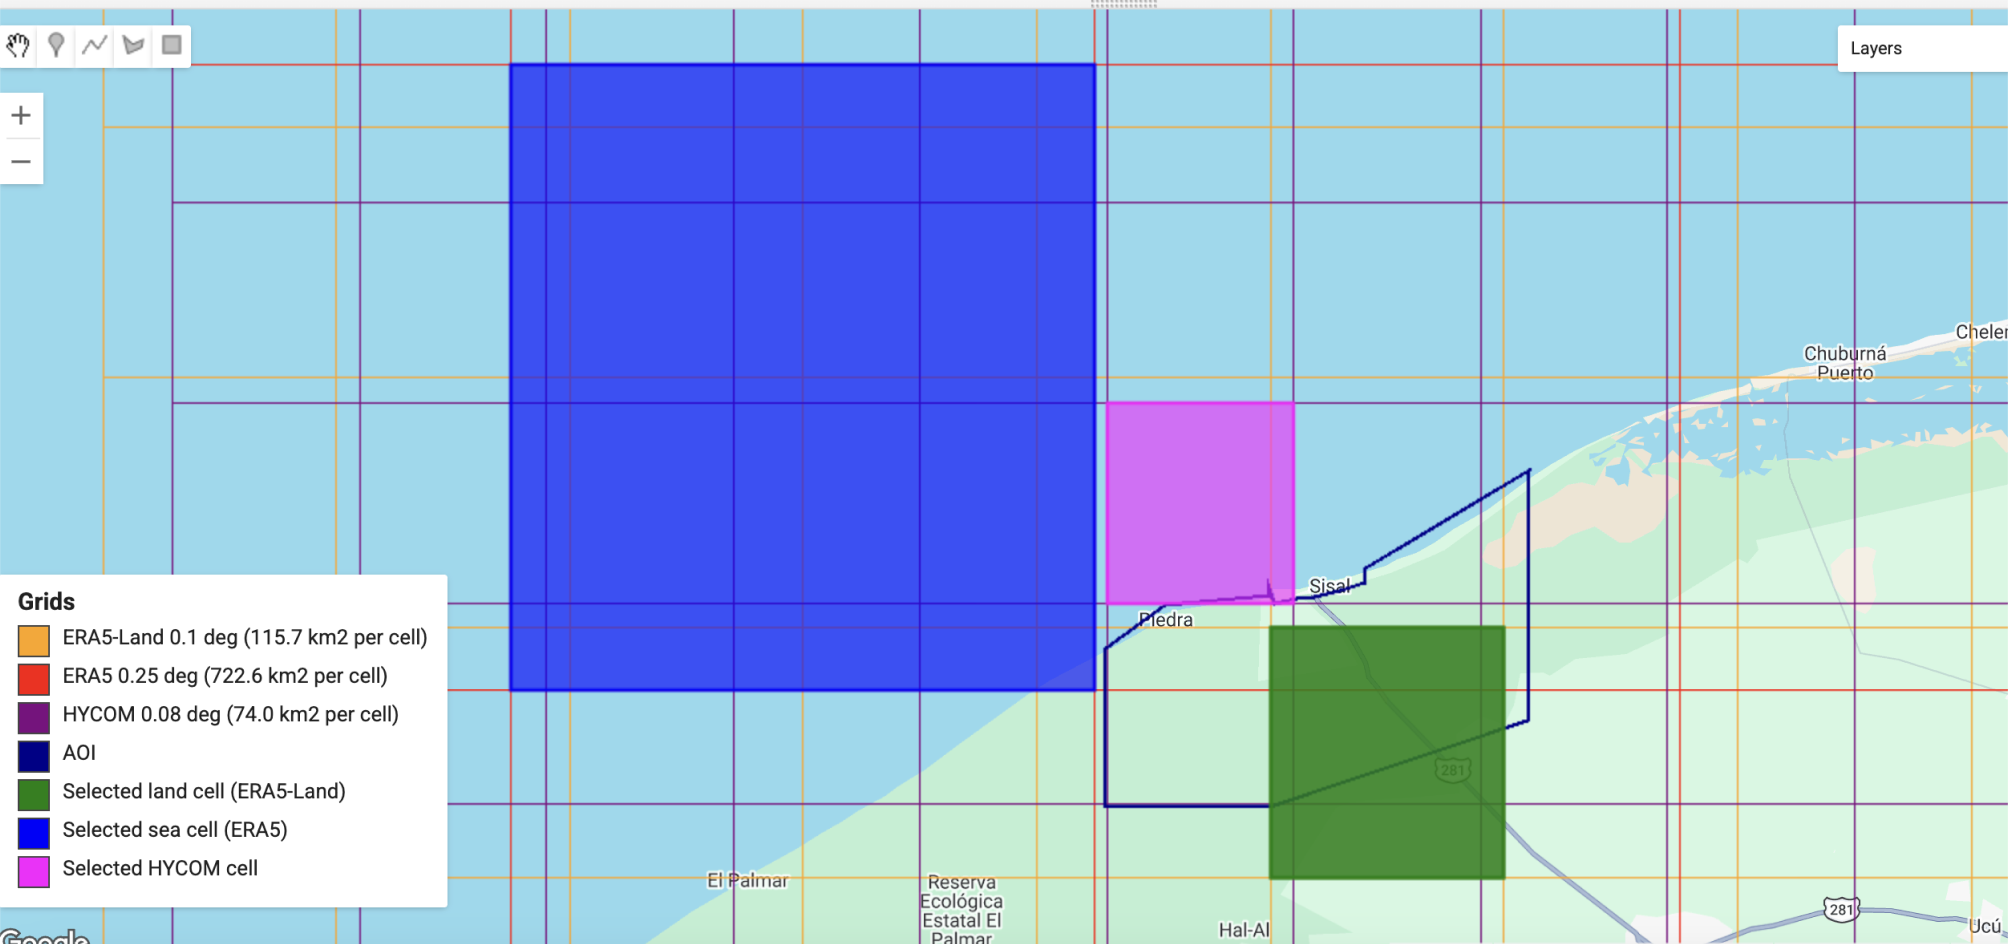
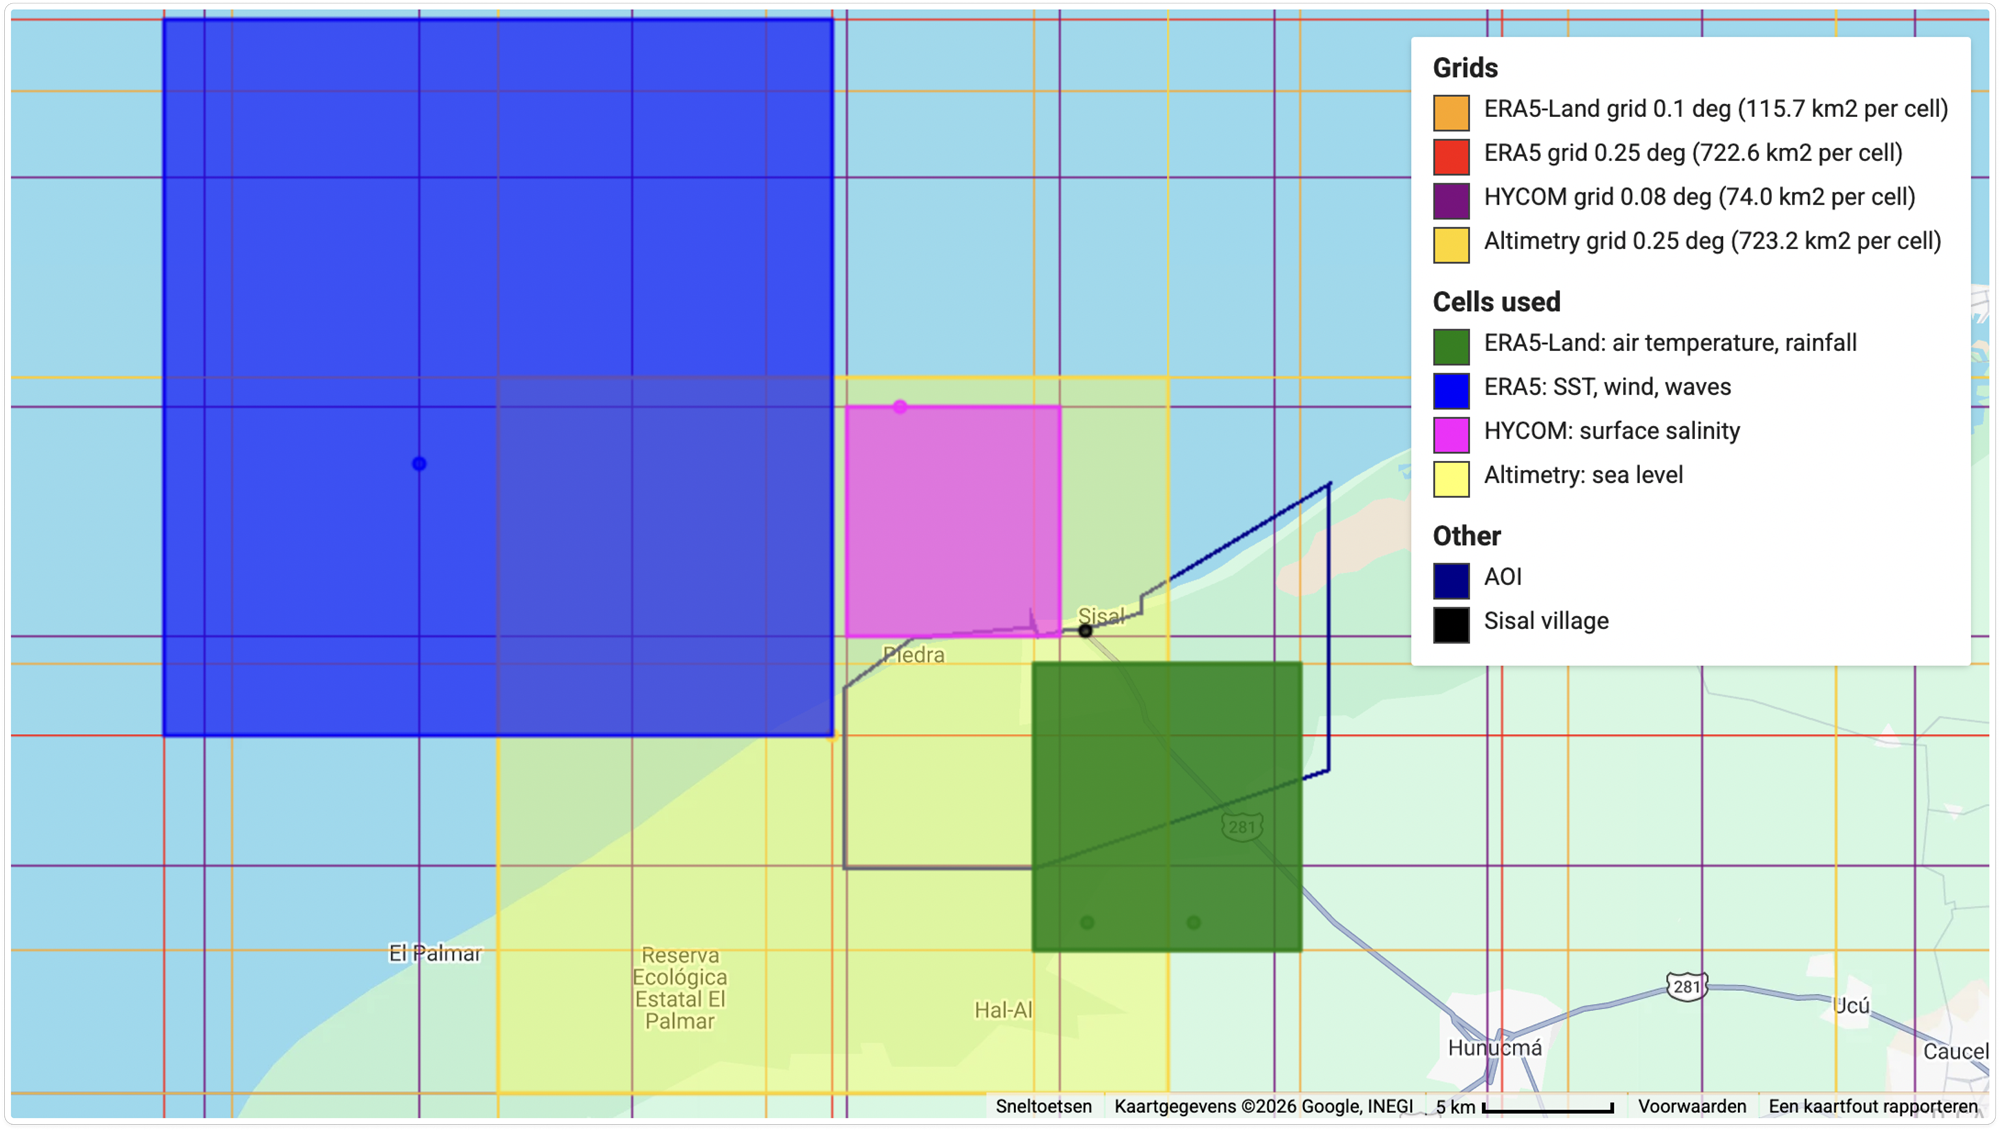
updates

diff --git a/js/triangle.js b/js/triangle.js
@@ -1,10 +1,8 @@
-// triangle.js: the triangle of the three sources (triangulation), the small version of it and the
-//   "This page answers ..." line of the research pages.
+// triangle.js: the triangle of the three sources (triangulation), and the small version of it.
 //   - buildTriangle(): the big triangle as inline SVG (Figma Playground "Triangle A - Refined report"). Hover or keyboard
 //     focus on a source highlights it and its two relations (the rest goes to 30 %); a click opens that page. Hover, focus or a
 //     tap on a relation highlights it and shows its text in a tooltip. On a phone the relation names move below the triangle.
 //   - buildMiniTriangle(pageId): 48 px, shapes only, with the source of that page highlighted; it links to the landing page.
-//   - buildAnswersLine(pageId): the line under the intro of a research page.
 // Reads: content/triangulation.json and the page labels of content/pages.json (through content.js).
 // Uses: helpers.js (fillPlaceholders), content.js (CONTENT, pageSections). Used by: landing.js, method.js, content.js.
 // Colors come from the css variables (css/triangle.css): every source has data-section="<page id>", so it takes the colors of its page.
@@ -233,25 +231,4 @@ function buildMiniTriangle(pageId) {
   TRIANGLE_MINI.forEach((d, i) => svg.appendChild(svgEl('path', { class: i === index ? 'triangle-mini-shape is-hot' : 'triangle-mini-shape', d })));
   link.appendChild(svg);
   return link;
-}
-
-// ---------- the line under the intro of a research page ----------
-
-// "This page answers: where and how much? For when, see Climatology → For why, see Stakeholders →"
-function buildAnswersLine(pageId) {
-  const c = CONTENT.triangulation;
-  const own = c.sources.find((s) => s.page === pageId);
-  if (!own) return null;
-  const line = triHtml('p', 'triangle-answers');
-  const question = own.question.charAt(0).toLowerCase() + own.question.slice(1);
-  line.appendChild(document.createTextNode(c.texts.answersLead + ' ' + question + ' '));
-  c.sources.filter((s) => s.page !== pageId).forEach((s) => {
-    line.appendChild(document.createTextNode(fillPlaceholders(c.texts.answersSee, { short: s.short }) + ' '));
-    const link = triHtml('a', 'triangle-answers-link', pageLabelOf(s.page) + ' →');
-    link.href = '#' + s.page;
-    link.dataset.section = s.page;   // the link has the color of the page it goes to
-    line.appendChild(link);
-    line.appendChild(document.createTextNode(' '));
-  });
-  return line;
 }

diff --git a/css/triangle.css b/css/triangle.css
@@ -1,4 +1,4 @@
-/* triangle.css: the triangle of the three sources (triangulation), its small version and the "This page answers" line.
+/* triangle.css: the triangle of the three sources (triangulation), and its small version.
    Built by js/triangle.js from content/triangulation.json (Figma Playground: "Triangle A - Refined report", "Triangle A mini").
    Every source has data-section="<page id>", so the colors of its page (css/base.css) apply to it; the other colors are the
    shared ones of base.css. Loaded after method.css. */
@@ -66,10 +66,4 @@
 .triangle-mini-shape { fill: color-mix(in srgb, var(--color-text-faint) 38%, var(--color-surface)); }
 .triangle-mini-shape.is-hot { fill: var(--color-accent); }
 
-/* ---------- the line under the intro of a research page ---------- */
-.triangle-answers { margin: 0; font-size: var(--font-size-body); line-height: 1.6; color: var(--color-text-body); }
-.research-grid > .triangle-answers { grid-column: 1 / -1; }
-.triangle-answers-link { font-weight: 500; color: var(--color-accent); text-decoration: none; }
-.triangle-answers-link:hover { text-decoration: underline; }
-.triangle-answers-link:focus-visible { outline: 2px solid var(--color-accent); outline-offset: 2px; border-radius: var(--radius-control); }
 

diff --git a/js/content.js b/js/content.js
@@ -209,14 +209,10 @@ function buildBand(s) {
   return top;
 }
 
-// The image band of a page, and under it the line "This page answers ..." (js/triangle.js).
+// The image band of a page.
 function placeBand(section, s) {
   const band = buildBand(s);
-  if (!band) return;
-  section.appendChild(band);
-  if (s.hideAnswersLine) return;   // pages.json: this page shows no "This page answers ..." line
-  const answers = buildAnswersLine(s.id);
-  if (answers) section.appendChild(answers);
+  if (band) section.appendChild(band);
 }
 
 // Builds the page navigation in the top bar (one link per page, a divider, "Method") and one <section> per page from pages.json.

diff --git a/analysis/climatology/export_typical_year.py b/analysis/climatology/export_typical_year.py
@@ -417,13 +417,21 @@ def export_storm_counts():
         name = names[sid].title()
         storms.append({'id': f'{name.lower()}-{time.year}', 'hurdatId': sid, 'name': name, 'year': int(time.year),
                        'month': int(time.month), 'studied': sid in studied})
+    # studied storms that are not in the selection (Mitch, Stan) are counted too, in the month of their storm period
+    start_of = {storm_id(all_trk, p['name'], p['start'][:4]): pd.Timestamp(p['start']) for p in periods}
+    for sid, name in studied.items():
+        if sid not in set(first.index):
+            when = start_of[sid]
+            storms.append({'id': f'{name.lower()}-{when.year}', 'hurdatId': sid, 'name': name.title(), 'year': int(when.year),
+                           'month': int(when.month), 'studied': True})
     per_month = pd.Series([x['month'] for x in storms]).value_counts().reindex(range(1, 13), fill_value=0)
     months = [m for m in range(1, 13) if per_month[m]]
     body = {
         'record': {'start': COUNT_YEAR0, 'end': COUNT_YEAR1},
         'rule': (f'Tropical or subtropical systems (HURDAT2 status TS, HU or SS) of at least tropical-storm strength '
                  f'(34 kt) within {RADIUS_KM} km of Sisal, {COUNT_YEAR0} to {COUNT_YEAR1}. Track points are interpolated to '
-                 f'hourly; the month is that of the first hour inside the circle.'),
+                 f'hourly; the month is that of the first hour inside the circle. Studied storms that do not meet this rule are '
+                 f'counted too, in the month their storm period starts.'),
         # numbers for the text under the charts (the website only shows them)
         'summary': {'total': len(storms), 'firstMonth': months[0], 'lastMonth': months[-1],
                     'peakMonths': [m for m in months if per_month[m] == per_month.max()]},

diff --git a/README.md b/README.md
@@ -121,7 +121,7 @@ Claude Code reads CLAUDE.md in every session, so the long descriptions live here
 - index.html: page structure (top bar, footer, the card library); loads the css and js files
 - css/: one shared file plus one per screen. Load order in index.html: base, points, charts, climatology, stakeholders, method.
   - css/base.css: design tokens (colors as CSS variables at the top, named like the Figma Tokens), section themes, page, top bar, navigation, cards, placeholders, research layout, card actions, footer
-  - css/points.css (Ecosystem: points map and chart), css/landing.css (landing page), css/triangle.css (the triangle, its mini version and the "This page answers" line), css/charts.css (stacked charts shared by storms and climate), css/climatology.css, css/stakeholders.css, css/method.css
+  - css/points.css (Ecosystem: points map and chart), css/landing.css (landing page), css/triangle.css (the triangle and its mini version), css/charts.css (stacked charts shared by storms and climate), css/climatology.css, css/stakeholders.css, css/method.css
 - js/: one file per screen plus shared helpers. All files share global names, so the script order in index.html matters (helpers.js first, main.js last); only main.js runs code, the others only define functions.
   - js/helpers.js: $, colors, number formatting (formatLike), escapeHtml, textOrPlaceholder, download, and the values every screen shares (year range, change classes, NO_DATA; filled by readSharedContent)
   - js/content.js: loads and checks content/pages.json, variables.json and texts.json, fills the texts, builds the pages, parts and simple cards, shows placeholder states

diff --git a/content/README.md b/content/README.md
@@ -20,7 +20,7 @@ touching the code (the `js/` and `css/` folders).
 | `stakeholders.json` | The Stakeholder page: three themes, the areas on the map (ellipses) and what stakeholders said about them |
 | `method.json` | The Method page: the analyses, their code files, and the "do it yourself" examples that the research cards link to |
 | `landing.json` | The landing page (`#home`): hero, the Method card and About card |
-| `triangulation.json` | The triangle of the three sources, "How the three sources fit together", "What we found in Sisal", and the "This page answers" line of the research pages |
+| `triangulation.json` | The triangle of the three sources, "How the three sources fit together", "What we found in Sisal" |
 | `climate.json` | "Climate at Sisal" on the Climatology page: the year range of "Change since 1950", the trends and their badges |
 
 Images go in `img/` (outside this folder) and are referred to as `img/name.png`.
